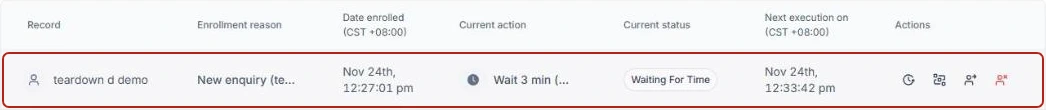
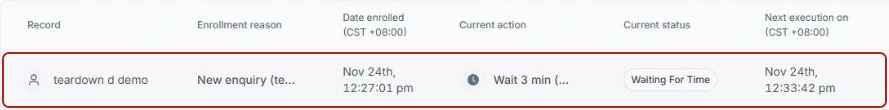
Link the follow-up teardown from Fixes and audits (G2 and G4 closed); index it

diff --git a/src/app/demo/followup-teardown/page.tsx b/src/app/demo/followup-teardown/page.tsx
@@ -9,14 +9,14 @@ import "./teardown.css";
 
 // Sample teardown "the follow-up that never stops" (spec C:\PortfolioProjects\ghl-rescue\TEARDOWN-SPEC.md v0.2).
 // Every time, count and test below comes from TEARDOWN-WRITEUP.md and ASSET-REGISTER.md (the GoHighLevel logs).
-// G4 round 1 (review\TD-G4-v1\FIXES.md): proof first, offer at about two minutes, the full write-up below it.
+// G2 and G4 closed 2026-11-27 (ghl-rescue/review/TD-G4-v1/FIXES.md): linked from /work/fixes-and-audits and indexed since then.
 // Note: plain text that holds an HTML entity loses its leading space after a tag, so curly quotes are typed as
 // characters, and a bold label is followed by {" "}.
 
 export const metadata: Metadata = {
   title: { absolute: "GoHighLevel teardown: a follow-up that emailed people who booked | John Boy Roxas" },
   description: "A sample GoHighLevel workflow teardown: the cause found in the logs, the change list with how to undo each change, and five tests with times.",
-  robots: { index: false, follow: false },
+  alternates: { canonical: "https://www.johnboydesign.com/demo/followup-teardown" },
   openGraph: {
     type: "article",
     url: "https://www.johnboydesign.com/demo/followup-teardown",
@@ -51,6 +51,7 @@ function Shot({ src, w, h, alt, cap }: { src: string; w: number; h: number; alt:
         <Image src={IMG + src} alt={alt} width={w} height={h} sizes={`(max-width: 860px) ${wide ? w + "px" : "100vw"}, ${w}px`} />
       </div>
       <figcaption>
+        {wide ? <span className="td-swipe" aria-hidden="true">Swipe the image to see the rest. </span> : null}
         {cap}{" "}
         <a className="td-full-link" href={IMG + src} target="_blank" rel="noopener">
           Open full size<span className="td-sr"> (opens in a new tab)</span>
@@ -381,7 +382,7 @@ export default function FollowUpTeardown() {
           </p>
           <Shot
             src="02-enrollment-before-fix-v2.webp"
-            w={1046}
+            w={889}
             h={110}
             alt="Enrollment history of the old workflow: test contact D (outlined) waiting for time, next execution 12:33:42 PM."
             cap="The old version at 12:32 PM: contact D still waiting."

diff --git a/src/lib/work.ts b/src/lib/work.ts
@@ -258,9 +258,10 @@ export const work: Work[] = [
       },
       {
         kind: "My own demo",
-        name: "GHL Rescue",
-        line: "A broken GoHighLevel account, then the same account fixed, with the written list of every change.",
-        soon: true,
+        name: "Follow-up teardown",
+        line: "A clinic follow-up that kept emailing people after they booked: the cause found in the logs, every change with how to undo it, and five tests with times. Built broken on purpose in my own GoHighLevel account.",
+        href: "/demo/followup-teardown",
+        cta: "Read the teardown",
       },
     ],
   },

diff --git a/src/app/sitemap.ts b/src/app/sitemap.ts
@@ -19,6 +19,12 @@ export default function sitemap(): MetadataRoute.Sitemap {
       priority: 1,
     },
     {
+      url: "https://www.johnboydesign.com/demo/followup-teardown",
+      lastModified: new Date("2026-11-27"),
+      changeFrequency: "monthly",
+      priority: 0.8,
+    },
+    {
       url: "https://www.johnboydesign.com/coach-os",
       lastModified: new Date("2026-11-04"),
       changeFrequency: "monthly",

diff --git a/src/app/demo/followup-teardown/teardown.css b/src/app/demo/followup-teardown/teardown.css
@@ -99,3 +99,6 @@
 .v4 .td-page .td-sec .wk-h { max-width: var(--figure); }
 .td-mark.found { background: #b54708; }
 .td-shot-img:focus-visible { outline: 2px solid var(--ink); outline-offset: 2px; }
+/* Recheck 2 (DD): on phones a wide screenshot says it scrolls before the reader has to guess. */
+.td-swipe { display: none; }
+@media (max-width: 860px) { .td-shot.wide .td-swipe { display: inline; } }
